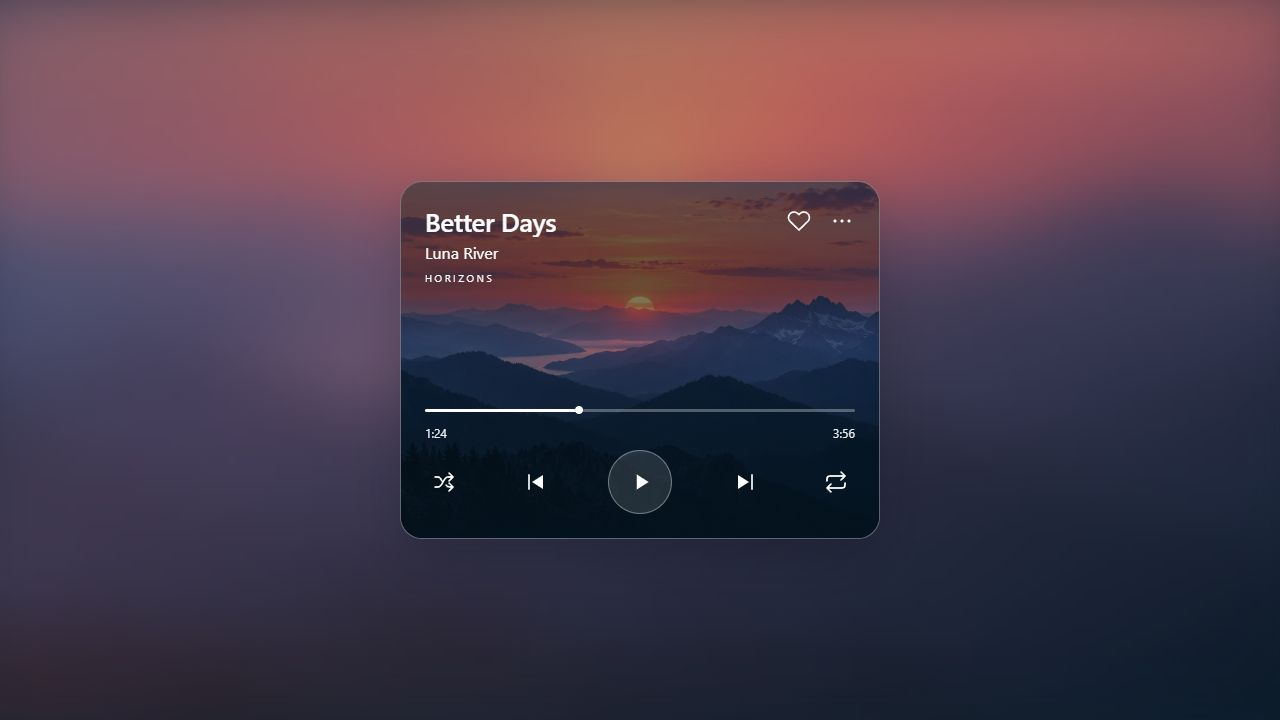
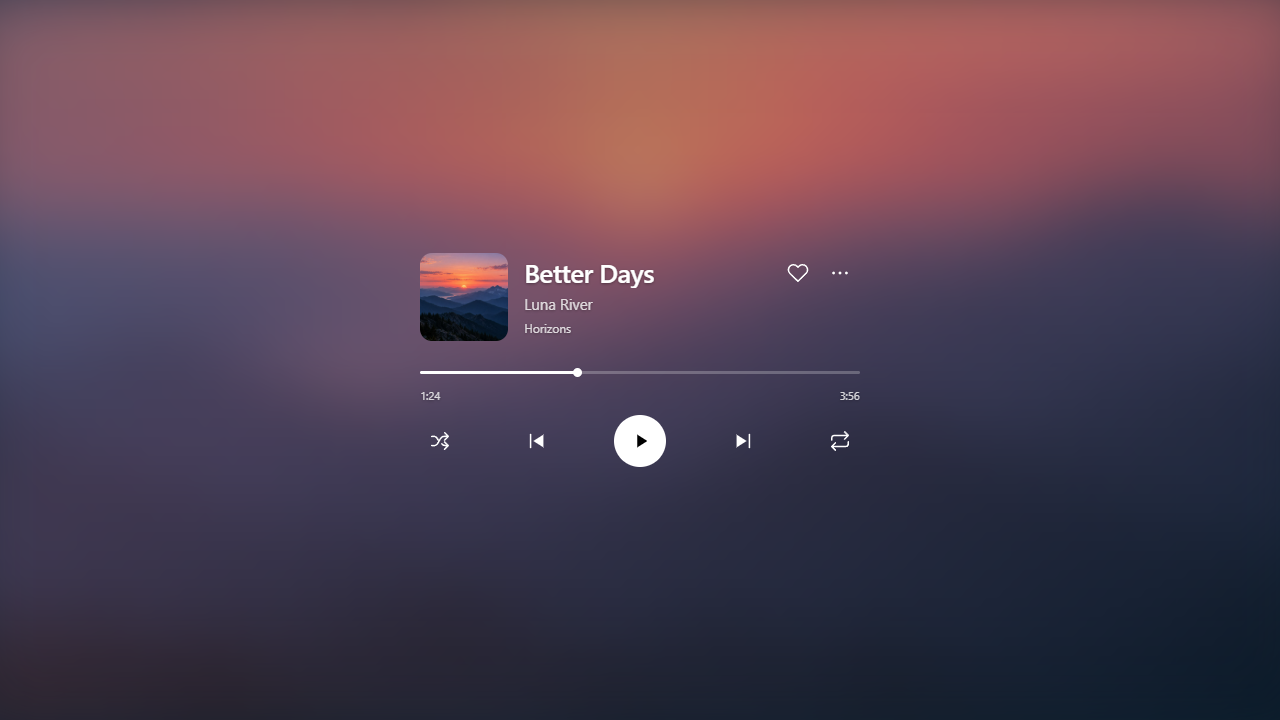
Refine Music Player layouts and independent transparent appearance

Changed region(s): [[0.3125, 0.2444, 0.6875, 0.7639]]

diff --git a/src/styles.css b/src/styles.css
@@ -1,114 +1,103 @@
-
- .mp-stage, .mp-stage * { box-sizing: border-box; }
-.mp-stage { color-scheme: dark; }
-.mp-stage { display:flex; align-items:center; justify-content:center; width:100%; height:100%; min-width:0; padding:12px; font-family:"Segoe UI Variable", "Segoe UI", system-ui, sans-serif; color:#fff; container-type:inline-size; }
-.mp-card { --mp-accent:#fff; --mp-opacity:.65; --mp-blur:16px; position:relative; width:min(100%,480px); min-width:0; border:1px solid rgb(255 255 255 / .3); border-radius:22px; background:rgb(9 22 32 / var(--mp-opacity)); backdrop-filter:blur(var(--mp-blur)); -webkit-backdrop-filter:blur(var(--mp-blur)); isolation:isolate; box-shadow:0 20px 50px rgb(2 8 15 / .22); }
-.mp-artwork { position:absolute; inset:0; width:100%; height:100%; object-fit:cover; border-radius:inherit; z-index:-2; }
-.mp-shade { position:absolute; inset:0; border-radius:inherit; z-index:-1; background:linear-gradient(180deg,rgb(9 18 31 / .6) 30%,rgb(9 18 31 / .25) 45%,rgb(4 18 29 / .72) 72%,rgb(4 18 29 / .98)); }
-.mp-content { position:relative; padding:clamp(16px,5cqw,26px); display:flex; flex-direction:column; }
-.mp-top { display:flex; gap:20px; align-items:flex-start; min-width:0; }
+.mp-stage, .mp-stage * { box-sizing: border-box; }
+.mp-stage { color-scheme: dark; display:flex; align-items:center; justify-content:center; width:100%; height:100%; min-width:0; padding:12px; font-family:"Segoe UI Variable", "Segoe UI", system-ui, sans-serif; container-type:inline-size; }
+.mp-card { --mp-accent:#fff; --mp-foreground:#fff; --mp-foreground-rgb:255 255 255; --mp-background:18 18 20; --mp-play-ink:#000; --mp-opacity:.65; --mp-blur:16px; --mp-border:0; --mp-padding:clamp(16px,4cqw,24px); position:relative; isolation:isolate; width:min(100%,480px); min-width:0; border:1px solid rgb(var(--mp-foreground-rgb) / var(--mp-border)); border-radius:22px; color:var(--mp-foreground); }
+.mp-backdrop { position:absolute; inset:0; border-radius:inherit; overflow:hidden; pointer-events:none; }
+.mp-card[data-background="color"] .mp-backdrop { background:rgb(var(--mp-background) / var(--mp-opacity)); backdrop-filter:blur(var(--mp-blur)); -webkit-backdrop-filter:blur(var(--mp-blur)); }
+.mp-card[data-background="artwork"] .mp-backdrop { opacity:var(--mp-opacity); }
+.mp-artwork { position:absolute; inset:0; width:100%; height:100%; object-fit:cover; filter:blur(var(--mp-blur)); transform:scale(1.15); }
+.mp-shade { display:none; position:absolute; inset:0; background:rgb(0 0 0 / .42); }
+.mp-card[data-background="artwork"][data-art="true"] .mp-shade { display:block; }
+.mp-content { position:relative; padding:var(--mp-padding); }
+.mp-top { display:flex; gap:16px; align-items:center; min-width:0; }
 .mp-info { min-width:0; flex:1; }
-.mp-title { font-size:clamp(20px,5.6cqw,26px); font-weight:500; letter-spacing:-.015em; line-height:1.2; margin:0; overflow:hidden; text-overflow:ellipsis; white-space:nowrap; }
-.mp-artist { margin:5px 0 0; font-size:clamp(13px,3.5cqw,16px); line-height:1.4; color:#fff; overflow:hidden; text-overflow:ellipsis; white-space:nowrap; }
-.mp-album { margin:7px 0 0; font-size:10px; letter-spacing:.25em; text-transform:uppercase; line-height:1.5; color:#fff; overflow:hidden; text-overflow:ellipsis; white-space:nowrap; }
-.mp-cover { width:100px; height:100px; object-fit:cover; border-radius:13px; flex:none; }
-.mp-actions { display:flex; gap:5px; flex:none; margin-top:-4px; margin-right:-6px; }
-.mp-button { display:inline-flex; align-items:center; justify-content:center; width:38px; height:38px; flex:none; padding:8px; border:0; color:inherit; background:transparent; border-radius:50%; cursor:pointer; transition:background 140ms ease-out,opacity 140ms ease-out; }
-.mp-button svg { width:24px; height:24px; flex:none; }
-.mp-button:hover:enabled { background:rgb(255 255 255 / .12); }
-.mp-button:active:enabled { background:rgb(255 255 255 / .2); }
-.mp-button:disabled { opacity:.28; cursor:default; }
+.mp-title { font-size:clamp(20px,5.6cqw,26px); font-weight:600; letter-spacing:-.02em; line-height:1.2; margin:0; overflow:hidden; text-overflow:ellipsis; white-space:nowrap; }
+.mp-artist { margin:6px 0 0; font-size:clamp(13px,3.5cqw,15px); line-height:1.4; }
+.mp-album { margin:5px 0 0; font-size:12px; line-height:1.4; }
+.mp-artist,.mp-album { color:rgb(var(--mp-foreground-rgb) / .8); overflow:hidden; text-overflow:ellipsis; white-space:nowrap; }
+.mp-card[data-background="transparent"] :is(.mp-info,.mp-times,.mp-status) { text-shadow:0 1px 3px rgb(0 0 0 / .35); }
+.mp-cover { width:88px; height:88px; object-fit:cover; border-radius:12px; flex:none; }
+.mp-actions { display:flex; gap:2px; flex:none; align-self:flex-start; }
+.mp-button { display:inline-flex; align-items:center; justify-content:center; width:40px; height:40px; flex:none; padding:9px; border:0; color:inherit; background:transparent; border-radius:50%; cursor:pointer; transition:background 140ms ease-out,opacity 140ms ease-out; }
+.mp-button svg { width:22px; height:22px; flex:none; }
+.mp-button:hover:enabled { background:rgb(var(--mp-foreground-rgb) / .12); }
+.mp-button:active:enabled { background:rgb(var(--mp-foreground-rgb) / .2); }
+.mp-button:disabled { opacity:.3; cursor:default; }
 .mp-button:focus-visible,.mp-menu-item:focus-visible,.mp-seek:focus-visible { outline:2px solid var(--mp-accent); outline-offset:3px; }
 .mp-button[aria-pressed="true"] { color:var(--mp-accent); }
 .mp-button[data-action="heart"][aria-pressed="true"] svg { fill:var(--mp-accent); }
-.mp-bottom { margin-top:112px; }
-.mp-times { display:flex; justify-content:space-between; font-variant-numeric:tabular-nums; font-size:12px; line-height:1.4; margin-top:3px; color:rgb(255 255 255 / .92); }
+.mp-bottom { margin-top:20px; }
+.mp-times { display:flex; justify-content:space-between; font-variant-numeric:tabular-nums; font-size:11px; line-height:1.4; margin-top:3px; color:rgb(var(--mp-foreground-rgb) / .8); }
 .mp-seek { --mp-progress:0%; display:block; appearance:none; -webkit-appearance:none; width:100%; height:24px; padding:0; margin:0; border:0; background:transparent; cursor:pointer; accent-color:var(--mp-accent); }
-.mp-seek::-webkit-slider-runnable-track { height:3px; border-radius:3px; background:linear-gradient(to right,var(--mp-accent) 0 var(--mp-progress),rgb(255 255 255 / .3) var(--mp-progress) 100%); }
-.mp-seek::-webkit-slider-thumb { appearance:none; -webkit-appearance:none; width:8px; height:8px; border:0; border-radius:50%; background:var(--mp-accent); margin-top:-2.5px; }
-.mp-seek::-moz-range-track { height:3px; border-radius:3px; background:rgb(255 255 255 / .3); }
+.mp-seek::-webkit-slider-runnable-track { height:3px; border-radius:3px; background:linear-gradient(to right,var(--mp-accent) 0 var(--mp-progress),rgb(var(--mp-foreground-rgb) / .24) var(--mp-progress) 100%); }
+.mp-seek::-webkit-slider-thumb { appearance:none; -webkit-appearance:none; width:9px; height:9px; border:0; border-radius:50%; background:var(--mp-accent); margin-top:-3px; }
+.mp-seek::-moz-range-track { height:3px; border-radius:3px; background:rgb(var(--mp-foreground-rgb) / .24); }
 .mp-seek::-moz-range-progress { height:3px; border-radius:3px; background:var(--mp-accent); }
-.mp-seek::-moz-range-thumb { width:8px; height:8px; border:0; border-radius:50%; background:var(--mp-accent); }
+.mp-seek::-moz-range-thumb { width:9px; height:9px; border:0; border-radius:50%; background:var(--mp-accent); }
 .mp-seek:disabled { cursor:default; opacity:.5; }
-.mp-controls { display:flex; justify-content:space-between; align-items:center; gap:8px; margin-top:8px; }
-.mp-play { width:64px; height:64px; padding:18px; border:1px solid rgb(255 255 255 / .35); background:rgb(255 255 255 / .12); }
-.mp-play svg { width:26px; height:26px; }
-.mp-play:hover:enabled { background:rgb(255 255 255 / .2); }
-.mp-status { font-size:12px; line-height:1.5; margin:12px 0 0; color:rgb(255 255 255 / .86); }
-.mp-menu { position:absolute; right:16px; top:64px; z-index:5; width:min(250px,calc(100% - 32px)); padding:8px; border:1px solid rgb(255 255 255 / .22); border-radius:14px; background:#15222d; box-shadow:0 12px 28px rgb(0 0 0 / .35); max-height:320px; overflow:auto; scrollbar-color:#526474 transparent; scrollbar-width:thin; }
-.mp-menu-label { padding:4px 10px; margin:4px 0; font-size:11px; color:#b9c8d2; }
-.mp-menu-item { display:block; width:100%; text-align:left; border:0; border-radius:7px; padding:9px 10px; background:transparent; color:#fff; font:inherit; font-size:13px; cursor:pointer; overflow:hidden; text-overflow:ellipsis; white-space:nowrap; }
-.mp-menu-item:hover,.mp-menu-item[aria-checked="true"] { background:#2d414f; }
-.mp-spectrum { height:60px; display:flex; align-items:flex-end; gap:3px; margin:20px 0 8px; padding:0 1px; }
-.mp-spectrum i { flex:1; height:100%; background:var(--mp-accent); opacity:.55; border-radius:2px 2px 0 0; transform:scaleY(calc(.04 + var(--mp-band,0) * .96)); transform-origin:bottom; transition:transform 90ms linear; }
-.mp-card[data-layout="visualizer"] { width:min(100%,600px); }
-.mp-card[data-layout="visualizer"] .mp-artwork,.mp-card[data-layout="editorial"] .mp-artwork,.mp-card[data-layout="compact"] .mp-artwork { display:none; }
-.mp-card[data-layout="visualizer"] .mp-shade,.mp-card[data-layout="editorial"] .mp-shade,.mp-card[data-layout="compact"] .mp-shade { background:linear-gradient(135deg,rgb(255 255 255 / .07),transparent); }
-.mp-card[data-layout="visualizer"] .mp-cover { width:108px; height:108px; }
-.mp-card[data-layout="visualizer"] .mp-bottom { margin-top:0; margin-left:128px; }
-.mp-card[data-layout="visualizer"] .mp-spectrum { margin-left:128px; margin-top:-20px; }
-.mp-card[data-layout="centered"] .mp-top { min-height:190px; justify-content:center; align-items:flex-end; text-align:center; }
-.mp-card[data-layout="centered"] .mp-album { position:absolute; top:28px; left:20%; right:20%; margin:0; }
-.mp-card[data-layout="centered"] .mp-actions { position:absolute; top:18px; right:20px; }
-.mp-card[data-layout="centered"] .mp-bottom { margin-top:20px; }
-.mp-card[data-layout="artwork"] .mp-top { min-height:250px; align-items:flex-end; }
-.mp-card[data-layout="artwork"] .mp-album { position:absolute; top:28px; left:26px; margin:0; }
-.mp-card[data-layout="artwork"] .mp-actions { position:absolute; top:18px; right:20px; }
-.mp-card[data-layout="artwork"] .mp-bottom { margin-top:12px; }
-.mp-card[data-layout="frosted"] .mp-bottom { margin:150px calc(-1 * clamp(16px,5cqw,26px)) calc(-1 * clamp(16px,5cqw,26px)); padding:14px clamp(16px,5cqw,26px) 20px; border-radius:22px; background:rgb(119 140 159 / .28); backdrop-filter:blur(var(--mp-blur)); -webkit-backdrop-filter:blur(var(--mp-blur)); }
-.mp-card[data-layout="compact"] { width:min(100%,640px); border-radius:18px; }
-.mp-card[data-layout="compact"] .mp-content { display:grid; grid-template-columns:minmax(0,1fr) auto; padding:12px; gap:10px; align-items:center; }
-.mp-card[data-layout="compact"] .mp-top { align-items:center; gap:12px; }
-.mp-card[data-layout="compact"] .mp-cover { width:54px; height:54px; border-radius:8px; }
+.mp-controls { display:flex; justify-content:space-between; align-items:center; gap:8px; margin-top:12px; }
+.mp-play { width:52px; height:52px; padding:15px; background:var(--mp-accent); color:var(--mp-play-ink); }
+.mp-play:hover:enabled { background:var(--mp-accent); opacity:.85; }
+.mp-play:active:enabled { background:var(--mp-accent); opacity:.72; }
+.mp-status { font-size:12px; line-height:1.5; margin:14px 0 0; color:rgb(var(--mp-foreground-rgb) / .8); }
+.mp-menu { position:absolute; right:var(--mp-padding); top:64px; z-index:5; width:min(250px,calc(100% - 32px)); padding:8px; border:1px solid rgb(255 255 255 / .22); border-radius:14px; background:#18181c; color:#fff; box-shadow:0 12px 28px rgb(0 0 0 / .35); max-height:min(320px,75vh); overflow:auto; scrollbar-color:#62626b transparent; scrollbar-width:thin; }
+.mp-menu-label { padding:4px 10px; margin:4px 0; font-size:11px; color:#c0c0c8; }
+.mp-menu-item { display:block; width:100%; min-height:38px; text-align:left; border:0; border-radius:8px; padding:9px 10px; background:transparent; color:inherit; font:inherit; font-size:13px; cursor:pointer; overflow:hidden; text-overflow:ellipsis; white-space:nowrap; }
+.mp-menu-item:hover,.mp-menu-item[aria-checked="true"] { background:rgb(255 255 255 / .12); }
+.mp-spectrum { height:64px; display:flex; align-items:flex-end; gap:4px; margin:24px 0; }
+.mp-spectrum i { flex:1; min-width:0; height:100%; background:var(--mp-accent); opacity:.8; border-radius:3px 3px 0 0; transform:scaleY(calc(.04 + var(--mp-band,0) * .96)); transform-origin:bottom; transition:transform 90ms linear; }
+.mp-card[data-layout="visualizer"] { width:min(100%,640px); }
+.mp-card[data-layout="visualizer"] .mp-cover { width:112px; height:112px; }
+.mp-card[data-layout="visualizer"] .mp-bottom { display:grid; grid-template-columns:minmax(0,1fr) auto; gap:24px; align-items:center; }
+.mp-card[data-layout="visualizer"] .mp-controls { margin-top:0; }
+.mp-card[data-layout="artwork"] { width:min(100%,360px); }
+.mp-card[data-layout="artwork"] .mp-top { flex-direction:column; align-items:stretch; }
+.mp-card[data-layout="artwork"] .mp-cover { width:100%; height:auto; aspect-ratio:1; border-radius:16px; }
+.mp-card[data-layout="artwork"] .mp-actions { position:absolute; top:calc(var(--mp-padding) + 8px); right:calc(var(--mp-padding) + 8px); flex-direction:row; border-radius:24px; color:#fff; background:rgb(0 0 0 / .5); }
+.mp-card[data-layout="artwork"][data-art="false"] .mp-actions { position:static; align-self:flex-end; color:inherit; background:transparent; }
+.mp-card[data-layout="compact"] { width:min(100%,760px); border-radius:18px; }
+.mp-card[data-layout="compact"] .mp-content { display:grid; grid-template-columns:minmax(0,1fr) auto; padding:12px; gap:16px; align-items:center; }
+.mp-card[data-layout="compact"] .mp-top { gap:12px; }
+.mp-card[data-layout="compact"] .mp-cover { width:52px; height:52px; border-radius:8px; }
 .mp-card[data-layout="compact"] .mp-title { font-size:16px; }
 .mp-card[data-layout="compact"] .mp-artist { font-size:12px; margin-top:2px; }
 .mp-card[data-layout="compact"] .mp-album { display:none; }
-.mp-card[data-layout="compact"] .mp-actions { position:absolute; right:9px; top:10px; }
+.mp-card[data-layout="compact"] .mp-actions { position:absolute; right:10px; top:14px; }
 .mp-card[data-layout="compact"] .mp-actions [data-action="heart"] { display:none; }
-.mp-card[data-layout="compact"] .mp-actions [data-action="more"] { width:22px; height:22px; padding:3px; }
-.mp-card[data-layout="compact"] .mp-bottom { display:flex; margin:0 22px 0 0; gap:14px; align-items:center; }
-.mp-card[data-layout="compact"] .mp-controls { gap:1px; margin:0; }
+.mp-card[data-layout="compact"] .mp-actions [data-action="more"] { width:30px; height:30px; padding:5px; }
+.mp-card[data-layout="compact"] .mp-bottom { display:flex; margin:0 38px 0 0; gap:16px; align-items:center; }
+.mp-card[data-layout="compact"] .mp-controls { gap:2px; margin:0; }
 .mp-card[data-layout="compact"] [data-action="shuffle"],.mp-card[data-layout="compact"] [data-action="repeat"] { display:none; }
-.mp-card[data-layout="compact"] .mp-play { width:48px;height:48px;padding:13px; }
-.mp-card[data-layout="compact"] .mp-play svg { width:20px;height:20px; }
+.mp-card[data-layout="compact"] .mp-play { width:44px; height:44px; padding:12px; }
 .mp-card[data-layout="compact"] .mp-times { font-size:10px; }
-.mp-card[data-layout="compact"] .mp-timeline { width:105px; }
+.mp-card[data-layout="compact"] .mp-timeline { width:112px; }
 .mp-card[data-layout="compact"] .mp-status { grid-column:1 / -1; }
-.mp-card[data-layout="compact"] .mp-menu { top:45px; }
-.mp-card[data-layout="editorial"] { width:min(100%,540px); }
-.mp-card[data-layout="editorial"] .mp-top { align-items:flex-start; }
-.mp-card[data-layout="editorial"] .mp-bottom { margin-top:16px; }
-.mp-card:not([data-layout="visualizer"]):not([data-layout="editorial"]):not([data-layout="compact"]) .mp-cover { display:none; }
+.mp-card[data-layout="compact"] .mp-menu { top:48px; right:10px; }
+.mp-card[data-ready="false"] .mp-title { white-space:normal; }
 .mp-card[data-ready="false"] .mp-artist { white-space:normal; font-size:13px; max-width:32ch; }
-.mp-card[data-ready="false"] .mp-bottom { margin-top:30px; }
-.mp-card ::selection { background:rgb(255 255 255 / .26); color:#fff; }
+.mp-card ::selection { background:var(--mp-accent); color:var(--mp-play-ink); }
 .mp-card [hidden] { display:none!important; }
-@container (max-width:420px) {
- .mp-card[data-layout="visualizer"] .mp-cover,.mp-card[data-layout="editorial"] .mp-cover { width:76px; height:76px; }
- .mp-card[data-layout="visualizer"] .mp-spectrum { margin-left:0; margin-top:22px; }
- .mp-card[data-layout="visualizer"] .mp-bottom { margin-left:0; }
+@container (max-width:520px) {
+ .mp-card[data-layout="visualizer"] .mp-bottom { display:block; }
+ .mp-card[data-layout="visualizer"] .mp-controls { margin-top:12px; }
  .mp-card[data-layout="compact"] .mp-timeline { display:none; }
- .mp-card[data-layout="compact"] .mp-cover { width:42px;height:42px; }
- .mp-card[data-layout="compact"] .mp-top { gap:8px; }
- .mp-card[data-layout="compact"] .mp-title { font-size:14px; }
- .mp-card[data-layout="compact"] .mp-play { width:38px;height:38px; padding:10px; }
- .mp-card[data-layout="compact"] .mp-controls .mp-button:not(.mp-play) { width:28px;height:28px;padding:5px; }
- .mp-card[data-layout="artwork"] .mp-top { min-height:180px; }
 }
-@container (max-width:290px) {
- .mp-actions { gap:0; }
- .mp-button { width:30px;height:30px;padding:6px; }
- .mp-play { width:50px;height:50px;padding:14px; }
- .mp-top { gap:10px; }
+@container (max-width:360px) {
+ .mp-cover,.mp-card[data-layout="visualizer"] .mp-cover { width:64px; height:64px; }
+ .mp-top { gap:12px; }
+ .mp-actions { flex-direction:column; gap:0; }
+ .mp-card[data-layout="compact"] .mp-content { display:block; }
+ .mp-card[data-layout="compact"] .mp-top { padding-right:30px; }
+ .mp-card[data-layout="compact"] .mp-bottom { display:block; margin:12px 0 0; }
+ .mp-card[data-layout="compact"] .mp-controls { justify-content:space-between; }
+}
+@container (max-width:260px) {
+ .mp-card { --mp-padding:12px; }
+ .mp-cover,.mp-card[data-layout="visualizer"] .mp-cover { width:48px; height:48px; }
+ .mp-top { gap:8px; }
  .mp-title { font-size:18px; }
- .mp-card[data-layout="editorial"] .mp-cover,.mp-card[data-layout="visualizer"] .mp-cover { width:54px;height:54px; }
- .mp-card[data-layout="editorial"] .mp-actions,.mp-card[data-layout="visualizer"] .mp-actions { flex-direction:column; }
-}
-@container (max-width:230px) {
- .mp-content { padding:12px; }
  .mp-controls { gap:2px; }
- .mp-controls .mp-button:not(.mp-play) { width:auto; min-width:0; flex:1 1 0; padding:3px; }
- .mp-controls .mp-button svg { width:min(100%,24px); }
- .mp-controls .mp-play { width:40px;height:40px;padding:10px; }
+ .mp-controls .mp-button:not(.mp-play) { width:auto; min-width:0; flex:1 1 0; padding:6px; }
+ .mp-controls .mp-button svg { width:min(100%,22px); }
+ .mp-controls .mp-play { width:44px; height:44px; padding:12px; }
 }
 @media (prefers-reduced-motion:reduce) { .mp-button,.mp-spectrum i { transition:none; } }

diff --git a/src/main.ts b/src/main.ts
@@ -5,9 +5,12 @@ import demoCover from '../assets/demo-cover.webp'
 import './styles.css'
 
 const copy = {
-  en: { waiting: 'Connecting to Windows…', empty: 'Your music, right here.', emptyHint: 'Play a track in Spotify or another Windows media player.', offline: 'Open in MyWallpaper Desktop', offlineHint: 'Windows playback controls require the native companion.', reconnecting: 'Reconnecting…', play: 'Play', pause: 'Pause', previous: 'Previous track', next: 'Next track', shuffle: 'Shuffle', repeat: 'Repeat', repeatOff: 'Off', repeatTrack: 'Track', repeatList: 'Playlist', spectrumError: 'Audio visualization is unavailable. Playback controls remain available.', unavailable: 'Windows media controls are unavailable', seek: 'Playback position', favorite: 'Save track on this device', unfavorite: 'Remove saved track', more: 'Player options', layouts: 'Appearance', source: 'Media source', unknown: 'Unknown artist', failed: 'This player could not perform that action.', retry: 'Refresh media session', visualizer: 'System audio spectrum', noSpectrum: 'Waiting for system audio', labels: ['Minimal', 'Artwork + spectrum', 'Centered', 'Full artwork', 'Frosted controls', 'Compact bar', 'Editorial'] },
-  fr: { waiting: 'Connexion à Windows…', empty: 'Votre musique, juste ici.', emptyHint: 'Lancez un morceau dans Spotify ou un autre lecteur Windows.', offline: 'Ouvrir dans MyWallpaper Desktop', offlineHint: 'Le contrôle de la musique nécessite le compagnon natif Windows.', reconnecting: 'Reconnexion…', play: 'Lire', pause: 'Mettre en pause', previous: 'Morceau précédent', next: 'Morceau suivant', shuffle: 'Lecture aléatoire', repeat: 'Répétition', repeatOff: 'Désactivée', repeatTrack: 'Morceau', repeatList: 'Playlist', spectrumError: 'Le spectre audio est indisponible. Les commandes de lecture restent disponibles.', unavailable: 'Le contrôle multimédia Windows est indisponible', seek: 'Position de lecture', favorite: 'Enregistrer ce morceau sur cet appareil', unfavorite: 'Retirer le morceau enregistré', more: 'Options du lecteur', layouts: 'Présentation', source: 'Source musicale', unknown: 'Artiste inconnu', failed: 'Ce lecteur n’a pas pu effectuer cette action.', retry: 'Actualiser la session musicale', visualizer: 'Spectre audio du système', noSpectrum: 'En attente du son du système', labels: ['Minimaliste', 'Pochette + spectre', 'Centré', 'Grand visuel', 'Contrôles givrés', 'Barre compacte', 'Éditorial'] },
+  en: { waiting: 'Connecting to Windows…', empty: 'Your music, right here.', emptyHint: 'Play a track in Spotify or another Windows media player.', offline: 'Open in MyWallpaper Desktop', offlineHint: 'Windows playback controls require the native companion.', reconnecting: 'Reconnecting…', play: 'Play', pause: 'Pause', previous: 'Previous track', next: 'Next track', shuffle: 'Shuffle', repeat: 'Repeat', repeatOff: 'Off', repeatTrack: 'Track', repeatList: 'Playlist', spectrumError: 'Audio visualization is unavailable. Playback controls remain available.', unavailable: 'Windows media controls are unavailable', seek: 'Playback position', favorite: 'Save track on this device', unfavorite: 'Remove saved track', more: 'Player options', layouts: 'Appearance', source: 'Media source', unknown: 'Unknown artist', failed: 'This player could not perform that action.', retry: 'Refresh media session', visualizer: 'System audio spectrum', noSpectrum: 'Waiting for system audio', labels: ['Minimal', 'Artwork + spectrum', 'Full artwork', 'Compact bar'] },
+  fr: { waiting: 'Connexion à Windows…', empty: 'Votre musique, juste ici.', emptyHint: 'Lancez un morceau dans Spotify ou un autre lecteur Windows.', offline: 'Ouvrir dans MyWallpaper Desktop', offlineHint: 'Le contrôle de la musique nécessite le compagnon natif Windows.', reconnecting: 'Reconnexion…', play: 'Lire', pause: 'Mettre en pause', previous: 'Morceau précédent', next: 'Morceau suivant', shuffle: 'Lecture aléatoire', repeat: 'Répétition', repeatOff: 'Désactivée', repeatTrack: 'Morceau', repeatList: 'Playlist', spectrumError: 'Le spectre audio est indisponible. Les commandes de lecture restent disponibles.', unavailable: 'Le contrôle multimédia Windows est indisponible', seek: 'Position de lecture', favorite: 'Enregistrer ce morceau sur cet appareil', unfavorite: 'Retirer le morceau enregistré', more: 'Options du lecteur', layouts: 'Présentation', source: 'Source musicale', unknown: 'Artiste inconnu', failed: 'Ce lecteur n’a pas pu effectuer cette action.', retry: 'Actualiser la session musicale', visualizer: 'Spectre audio du système', noSpectrum: 'En attente du son du système', labels: ['Minimaliste', 'Pochette + spectre', 'Grand visuel', 'Barre compacte'] },
 }
+const colorSetting = (value: unknown, fallback: string) => typeof value === 'string' && /^#[0-9a-f]{6}$/i.test(value) ? value : fallback
+const numberSetting = (value: unknown, fallback: number, max = 1) => typeof value === 'number' && Number.isFinite(value) ? Math.min(max, Math.max(0, value)) : fallback
+const colorChannels = (value: string) => [1, 3, 5].map(start => Number.parseInt(value.slice(start, start + 2), 16))
 const button = (name: string, className = '') => `<button type="button" class="mp-button ${className}" data-action="${name}">${icon(name === 'playPause' ? 'play' : name)}</button>`
 
 export function mount({ layer, runtime }: CanvasAddonMountContext): () => void {
@@ -19,6 +22,7 @@ export function mount({ layer, runtime }: CanvasAddonMountContext): () => void {
   let deviceSettings = layer.deviceSettings.get()
   let language: 'en' | 'fr' = 'en'
   let layout: Layout = 'minimal'
+  let background = 'transparent'
   let connection: NativeConnection | null = null
   let disconnectMessages: (() => void) | undefined
   let disconnectState: (() => void) | undefined
@@ -34,7 +38,7 @@ export function mount({ layer, runtime }: CanvasAddonMountContext): () => void {
   wrapper.className = 'mp-stage'
   const card = document.createElement('article')
   card.className = 'mp-card'
-  card.innerHTML = `<img class="mp-artwork" alt="" hidden><div class="mp-shade"></div><div class="mp-content"><div class="mp-top"><img class="mp-cover" alt="" hidden><div class="mp-info"><h2 class="mp-title"></h2><p class="mp-artist"></p><p class="mp-album"></p></div><div class="mp-actions">${button('heart')}${button('more')}</div></div><div class="mp-spectrum" role="img" hidden>${Array.from({length:32},()=>'<i></i>').join('')}</div><div class="mp-bottom"><div class="mp-timeline"><input type="range" min="0" max="100" step="1000" value="0" class="mp-seek"><div class="mp-times"><span class="mp-elapsed">0:00</span><span class="mp-duration">0:00</span></div></div><div class="mp-controls">${button('shuffle')}${button('previous')}${button('playPause', 'mp-play')}${button('next')}${button('repeat')}</div></div><p class="mp-status" role="status"></p><div class="mp-menu" role="menu" hidden></div></div>`
+  card.innerHTML = `<div class="mp-backdrop" aria-hidden="true"><img class="mp-artwork" alt="" hidden><div class="mp-shade"></div></div><div class="mp-content"><div class="mp-top"><img class="mp-cover" alt="" hidden><div class="mp-info"><h2 class="mp-title"></h2><p class="mp-artist"></p><p class="mp-album"></p></div><div class="mp-actions">${button('heart')}${button('more')}</div></div><div class="mp-spectrum" role="img" hidden>${Array.from({length:32},()=>'<i></i>').join('')}</div><div class="mp-bottom"><div class="mp-timeline"><input type="range" min="0" max="100" step="1000" value="0" class="mp-seek"><div class="mp-times"><span class="mp-elapsed">0:00</span><span class="mp-duration">0:00</span></div></div><div class="mp-controls">${button('shuffle')}${button('previous')}${button('playPause', 'mp-play')}${button('next')}${button('repeat')}</div></div><p class="mp-status" role="status"></p><div class="mp-menu" role="menu" hidden></div></div>`
   wrapper.append(card)
   layer.root.replaceChildren(wrapper)
   const get = <T extends Element>(selector: string) => card.querySelector<T>(selector)!
@@ -87,7 +91,7 @@ export function mount({ layer, runtime }: CanvasAddonMountContext): () => void {
     album.hidden = settings.showAlbum === false || !media.album
     for (const image of [artwork, cover]) {
       if (media.artwork && image.getAttribute('src') !== media.artwork) image.src = media.artwork
-      image.hidden = !media.artwork
+      image.hidden = !media.artwork || (image === artwork && background !== 'artwork')
       if (!media.artwork) image.removeAttribute('src')
     }
     card.dataset.art = String(Boolean(media.artwork))
@@ -117,9 +121,24 @@ export function mount({ layer, runtime }: CanvasAddonMountContext): () => void {
     language = settings.language === 'fr' || (settings.language !== 'en' && navigator.language.startsWith('fr')) ? 'fr' : 'en'
     card.lang = language
     layout = layouts.includes(settings.layout as Layout) ? settings.layout as Layout : 'minimal'
-    card.style.setProperty('--mp-accent', typeof settings.accent === 'string' && /^#[0-9a-f]{6}$/i.test(settings.accent) ? settings.accent : '#ffffff')
-    card.style.setProperty('--mp-opacity', String(typeof settings.opacity === 'number' ? Math.min(1, Math.max(.2, settings.opacity)) : .65))
-    card.style.setProperty('--mp-blur', `${typeof settings.blur === 'number' ? Math.min(24, Math.max(0, settings.blur)) : 16}px`)
+    background = settings.background === 'color' || settings.background === 'artwork' ? settings.background : 'transparent'
+    card.dataset.background = background
+    const surface = colorSetting(settings.backgroundColor, '#121214')
+    const foreground = colorSetting(settings.foreground, '#ffffff')
+    const accent = colorSetting(settings.accent, '#ffffff')
+    const opacity = numberSetting(settings.opacity, .65)
+    const luminance = colorChannels(accent)
+      .map(value => value / 255)
+      .map(value => value <= .04045 ? value / 12.92 : ((value + .055) / 1.055) ** 2.4)
+      .reduce((sum, value, index) => sum + value * [.2126, .7152, .0722][index], 0)
+    card.style.setProperty('--mp-background', colorChannels(surface).join(' '))
+    card.style.setProperty('--mp-accent', accent)
+    card.style.setProperty('--mp-play-ink', luminance > .179 ? '#000000' : '#ffffff')
+    card.style.setProperty('--mp-foreground', foreground)
+    card.style.setProperty('--mp-foreground-rgb', colorChannels(foreground).join(' '))
+    card.style.setProperty('--mp-opacity', String(opacity))
+    card.style.setProperty('--mp-border', String(numberSetting(settings.borderOpacity, 0)))
+    card.style.setProperty('--mp-blur', `${opacity > 0 ? numberSetting(settings.blur, 16, 24) : 0}px`)
     render()
   }
   function settleRequest(error?: string) {

diff --git a/src/preview.ts b/src/preview.ts
@@ -1,25 +1,36 @@
 import { mount } from './main'
 import { layouts, emptyState } from './model'
 import demoCover from '../assets/demo-cover.webp'
+import manifest from '../manifest.json'
 import type { AddonValues, CanvasAddonMountContext, JsonValue, NativeConnection } from '../generated/mywallpaper-runtime'
 const blob = await (await fetch(demoCover)).blob()
 const coverData = await new Promise<string>(resolve => { const reader = new FileReader(); reader.onload = () => resolve(String(reader.result)); reader.readAsDataURL(blob) })
 const thumbnail = new URLSearchParams(location.search).get('view') === 'thumbnail'
 if (thumbnail) document.body.classList.add('thumbnail')
-const labels=['Minimal', 'Artwork + spectrum', 'Centered', 'Full artwork', 'Frosted controls', 'Compact bar', 'Editorial']
-const examples: Array<{refresh:()=>void, dispose:()=>void}>=[]
+const defaults = Object.fromEntries(manifest.settings.filter(setting => 'default' in setting).map(setting => [setting.id, setting.default])) as AddonValues
+const labels = manifest.settings.find(setting => setting.id === 'layout')!.options!
+const examples: Array<{refresh:()=>void, dispose:()=>void, appearance:(partial:AddonValues)=>Promise<void>}>=[]
 let empty=false
 for(const [i,layout] of (thumbnail ? layouts.slice(0,1) : layouts).entries()){
  const section=document.createElement('section');section.className='example';section.dataset.layout=layout
- const heading=document.createElement('h2');heading.textContent=labels[i];const root=document.createElement('div');root.className='host';section.append(heading,root);document.getElementById('preview')!.append(section)
- let settings:AddonValues={layout,opacity:.5,blur:16,showAlbum:true,showFavorite:true};let device:AddonValues={favorites:'[]'}
+ const heading=document.createElement('h2');heading.textContent=labels.find(option => option.value === layout)!.label;const root=document.createElement('div');root.className='host';section.append(heading,root);document.getElementById('preview')!.append(section)
+ let settings:AddonValues={...defaults,layout};let device:AddonValues={favorites:'[]'}
  const settingsListeners=new Set<(v:AddonValues)=>void>(),deviceListeners=new Set<(v:AddonValues)=>void>(),messages=new Set<(v:JsonValue)=>void>()
  const api=(deviceScope:boolean)=>({get:()=>deviceScope?device:settings,set:async(partial:AddonValues)=>{if(deviceScope)device={...device,...partial};else settings={...settings,...partial};for(const l of deviceScope?deviceListeners:settingsListeners)l(deviceScope?device:settings)},subscribe:(listener:(v:AddonValues)=>void)=>{const listeners=deviceScope?deviceListeners:settingsListeners;listeners.add(listener);return()=>{listeners.delete(listener)}}})
  const sample=()=>(empty?{...emptyState(),kind:'media.state'}:{...emptyState(),kind:'media.state',status:'ready',sessionId:'preview',source:'Preview',title:'Better Days',artist:'Luna River',album:'Horizons',artwork:empty?null:coverData,positionMs:84000,durationMs:236000,playing:false,capabilities:{playPause:true,previous:true,next:true,seek:true,shuffle:true,repeat:true}}) as unknown as JsonValue
  const connection:NativeConnection={state:'open',send:async value=>{for(const l of messages){l(sample());if(typeof value==='object'&&value!==null&&!Array.isArray(value))l({kind:'media.result',requestId:value.requestId??'',ok:true})}},onMessage:listener=>{messages.add(listener);return()=>{messages.delete(listener)}},onStateChange:()=>()=>{},close:()=>{messages.clear()}}
  const context={layer:{root,layerId:`preview-${i}`,settings:api(false),deviceSettings:api(true),native:{companion:{available:true,connect:async()=>connection},hooks:{available:false,status:()=>null,onStateChange:()=>()=>{}}},lifecycle:{onDispose:()=>()=>{}},actions:{on:()=>()=>{}},resources:{resolve:async()=>''},bus:{emit:()=>{},on:()=>()=>{}}},runtime:{mode:'interactive',surface:'interface',instance:{instanceId:'preview',displayIndex:0,displayCount:1,canonical:true,width:500,height:500}},bus:{emit:()=>{},on:()=>()=>{}},services:{connect:async()=>{throw new Error('No preview service')},provide:()=>{throw new Error('No preview service')}}} as CanvasAddonMountContext
- const dispose=mount(context);examples.push({refresh:()=>{for(const l of messages)l(sample())},dispose})
+ const dispose=mount(context);examples.push({refresh:()=>{for(const l of messages)l(sample())},dispose,appearance:partial=>api(false).set(partial)})
  queueMicrotask(()=>{for(const l of messages){l(sample());l({kind:'media.spectrum',bands:Array.from({length:32},(_,n)=>.08+Math.sin(n*.21)**2*.6)})}})
+}
+for (const id of ['background', 'backgroundColor', 'opacity', 'blur', 'foreground', 'accent', 'borderOpacity']) {
+ const field = document.getElementById(id) as HTMLInputElement | HTMLSelectElement
+ field.value = String(defaults[id])
+ field.addEventListener('input', () => {
+  const value = field instanceof HTMLInputElement && field.type === 'range' ? Number(field.value) : field.value
+  for (const example of examples) void example.appearance({[id]:value})
+  document.getElementById('background-color-control')!.hidden = (document.getElementById('background') as HTMLSelectElement).value !== 'color'
+ })
 }
 document.getElementById('empty')!.addEventListener('click',()=>{empty=!empty;document.getElementById('empty')!.textContent=empty?'Show sample track':'Show empty states';for(const e of examples)e.refresh()})
 window.addEventListener('pagehide',()=>{for(const e of examples)e.dispose()},{once:true})

diff --git a/preview.html b/preview.html
@@ -1,4 +1,10 @@
 <!doctype html><html lang="en"><head><meta charset="utf-8"><meta name="viewport" content="width=device-width,initial-scale=1"><title>Music Player · Layout preview</title><style>
-html{overflow-x:clip}body{overflow-x:clip;position:relative;isolation:isolate;margin:0;background:#102331;color:#fff;font-family:"Segoe UI Variable","Segoe UI",system-ui,sans-serif}header{display:flex;gap:16px;align-items:center;flex-wrap:wrap;padding:22px 30px}h1{margin:0;font-size:20px;font-weight:500}header p{margin:0;color:#c4d1da;font-size:13px}main{display:grid;grid-template-columns:repeat(3,minmax(0,1fr));gap:28px;max-width:1560px;margin:auto;padding:20px 30px 60px}.example{min-width:0}.example>h2{font-size:14px;font-weight:400;color:#d6e2e9;margin:0 0 10px}.example .host{min-height:200px}.mp-stage{padding:0!important}main .example[data-layout="visualizer"]{grid-column:span 2}.mp-stage{height:auto!important}.example[data-layout="compact"]{grid-column:span 2}button{font:inherit}header button{background:#243b4b;color:#fff;border:1px solid #698398;border-radius:20px;padding:8px 14px;cursor:pointer}header button:focus-visible{outline:2px solid white;outline-offset:3px}body:before{content:"";position:fixed;inset:0;z-index:-1;background:linear-gradient(155deg,#35597488,#794f6377 40%,#061622dd),url('/assets/demo-cover.webp') center/cover;filter:blur(35px);transform:scale(1.08)}@media(max-width:850px){main{grid-template-columns:repeat(2,minmax(0,1fr));padding:20px;gap:24px}.example[data-layout="visualizer"],.example[data-layout="compact"]{grid-column:span 2}}@media(max-width:550px){header{padding:20px}main{grid-template-columns:minmax(0,1fr)}main .example{grid-column:auto!important}}
+html{overflow-x:clip}body{overflow-x:clip;position:relative;isolation:isolate;margin:0;background:#102331;color:#fff;font-family:"Segoe UI Variable","Segoe UI",system-ui,sans-serif}header{display:flex;gap:16px;align-items:center;flex-wrap:wrap;padding:22px 30px}h1{margin:0;font-size:20px;font-weight:500}header p{margin:0;color:#c4d1da;font-size:13px}main{display:grid;grid-template-columns:repeat(3,minmax(0,1fr));gap:28px;max-width:1560px;margin:auto;padding:20px 30px 60px}.example{min-width:0}.example>h2{font-size:14px;font-weight:400;color:#d6e2e9;margin:0 0 10px}.example .host{min-height:200px}.mp-stage{padding:0!important}main .example[data-layout="visualizer"]{grid-column:span 2}.mp-stage{height:auto!important}.example[data-layout="compact"]{grid-column:span 2}button,input,select{font:inherit}header label{display:flex;gap:8px;align-items:center;font-size:12px}header input[type=range]{width:90px}header input[type=color]{width:32px;height:28px;padding:0;border:0;background:transparent}header select{background:#18181c;color:white;padding:6px;border:1px solid #62626b;border-radius:6px}[hidden]{display:none!important}button{font:inherit}header button{background:#243b4b;color:#fff;border:1px solid #698398;border-radius:20px;padding:8px 14px;cursor:pointer}header button:focus-visible{outline:2px solid white;outline-offset:3px}body:before{content:"";position:fixed;inset:0;z-index:-1;background:linear-gradient(155deg,#35597488,#794f6377 40%,#061622dd),url('/assets/demo-cover.webp') center/cover;filter:blur(35px);transform:scale(1.08)}@media(max-width:850px){main{grid-template-columns:repeat(2,minmax(0,1fr));padding:20px;gap:24px}.example[data-layout="visualizer"],.example[data-layout="compact"]{grid-column:span 2}}@media(max-width:550px){header{padding:20px}main{grid-template-columns:minmax(0,1fr)}main .example{grid-column:auto!important}}
 .thumbnail header{display:none}.thumbnail main{display:flex;align-items:center;justify-content:center;padding:0;min-height:100vh}.thumbnail .example{width:min(480px,calc(100vw - 80px))}.thumbnail .example>h2{display:none}.thumbnail .host{min-height:0}
-</style></head><body><header><h1>Music Player</h1><p>Layout preview · synthetic track metadata, no Windows playback</p><button id="empty">Show empty states</button></header><main id="preview"></main><script type="module" src="/src/preview.ts"></script></body></html>
+</style></head><body><header><h1>Music Player</h1><p>Layout preview · synthetic track metadata, no Windows playback</p><button id="empty">Show empty states</button><label>Background <select id="background"><option value="transparent">Transparent</option><option value="color">Solid color</option><option value="artwork">Track artwork</option></select></label>
+<label id="background-color-control" hidden>Color <input id="backgroundColor" type="color"></label>
+<label>Opacity <input id="opacity" type="range" min="0" max="1" step=".05"></label>
+<label>Blur <input id="blur" type="range" min="0" max="24" step="1"></label>
+<label>Border <input id="borderOpacity" type="range" min="0" max="1" step=".05"></label>
+<label>Text <input id="foreground" type="color"></label>
+<label>Accent <input id="accent" type="color"></label></header><main id="preview"></main><script type="module" src="/src/preview.ts"></script></body></html>

diff --git a/src/model.ts b/src/model.ts
@@ -1,6 +1,6 @@
 import type { JsonValue } from '../generated/mywallpaper-runtime'
 
-export const layouts = ['minimal', 'visualizer', 'centered', 'artwork', 'frosted', 'compact', 'editorial'] as const
+export const layouts = ['minimal', 'visualizer', 'artwork', 'compact'] as const
 export type Layout = typeof layouts[number]
 export type RepeatMode = 'none' | 'track' | 'list'
 export type MediaAction = 'playPause' | 'previous' | 'next' | 'seek' | 'shuffle' | 'repeat' | 'refresh' | 'session'

diff --git a/README.md b/README.md
@@ -1,6 +1,6 @@
 # Music Player
 
-A standalone MyWallpaper add-on that controls the music already playing on Windows. Seven presentations share one implementation: Minimal, Artwork + spectrum, Centered, Full artwork, Frosted controls, Compact bar, and Editorial. The Windows companion owns media access; the application core is unchanged.
+A standalone MyWallpaper add-on that controls the music already playing on Windows. Four distinct presentations share one implementation: Minimal, Artwork + spectrum, Full artwork, and Compact bar. The Windows companion owns media access; the application core is unchanged.
 
 ## What it controls
 
@@ -12,9 +12,11 @@ The spectrum presentation uses a real, optional WASAPI loopback capture of the d
 
 ## Settings and use
 
-Pair the local development session in MyWallpaper Desktop’s Developer settings and accept the native companion only after reviewing its source. Add the layer, resize/position it using the standard editor, then choose a presentation from its settings or its ⋯ menu. Appearance, accent, opacity, blur and language are per layer. Saved tracks are device-scoped. Settings and Windows messages are validated before display; track names are rendered as text.
+Pair the local development session in MyWallpaper Desktop’s Developer settings and accept the native companion only after reviewing its source. Add the layer, resize/position it using the standard editor, then choose a presentation from its settings or its ⋯ menu. Layout, background treatment, background color/opacity/blur, text color, accent, border opacity and language are per layer. New instances start transparent, without a border or a fixed colored glow. Choose a solid color or the current track cover when a background is useful. Background opacity never fades the text or controls. Saved tracks are device-scoped. Settings and Windows messages are validated before display; track names are rendered as text.
 
 The card uses the selected player’s cover. The mountain artwork and “Better Days / Luna River” shown in the browser preview and thumbnail are synthetic demonstration assets; they never replace real playback metadata in interactive mode. No music files or account credentials are bundled.
+
+Version 1.1.0 removes the overlapping Centered, Frosted controls and Editorial choices. Existing instances stay pinned to their installed release; when updating, use the settings compatibility preview in MyWallpaper to choose a supported layout. No automatic migration script is included.
 
 ## Build
 
@@ -42,7 +44,7 @@ The canonical `mywallpaper.config.json` defines finite web/native builds; `mywal
 pnpm preview
 ```
 
-Open http://localhost:5188/preview.html. It deliberately uses a marked synthetic fixture to compare all seven layouts without Windows playback. This preview is not a replacement for a paired Desktop session. It is not part of the shipped Canvas entry.
+Open http://localhost:5188/preview.html. It deliberately uses a marked synthetic fixture to compare all four layouts without Windows playback. This preview is not a replacement for a paired Desktop session. It is not part of the shipped Canvas entry.
 
 ## Release
 
